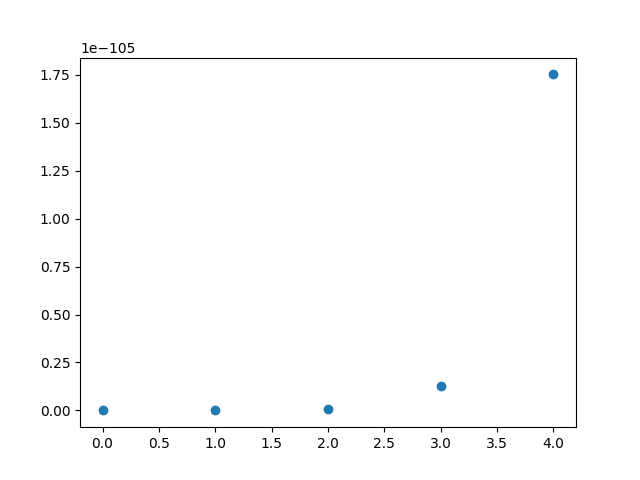
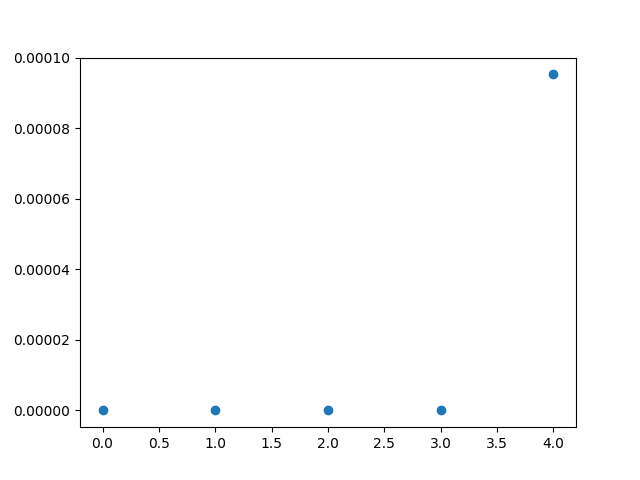
Arreglando algunos fallos

diff --git a/ficheros.py b/ficheros.py
@@ -54,12 +54,13 @@ puntos_y = []
 for i in range(0,5):
     puntos_x.append(i)
     r = (1-0.04)*i
-    y = (r + 15)/S # Llegadas por segundo
+    A = r*7.5 # Llegadas por segundo
     
 
-    output = subprocess.check_output("./Erlang.tcl 50 "+str(y), shell=True)
+    output = subprocess.check_output("./Erlang.tcl 50 "+str(A), shell=True)
     output_str = output.decode('utf-8')
-    puntos_y.append([(float(num)) for num in output_str.split()][0])
+    valor = [(float(num)) for num in output_str.split()][0]
+    puntos_y.append(valor)
     print(puntos_y)
 
 # Crear la figura y los ejes
